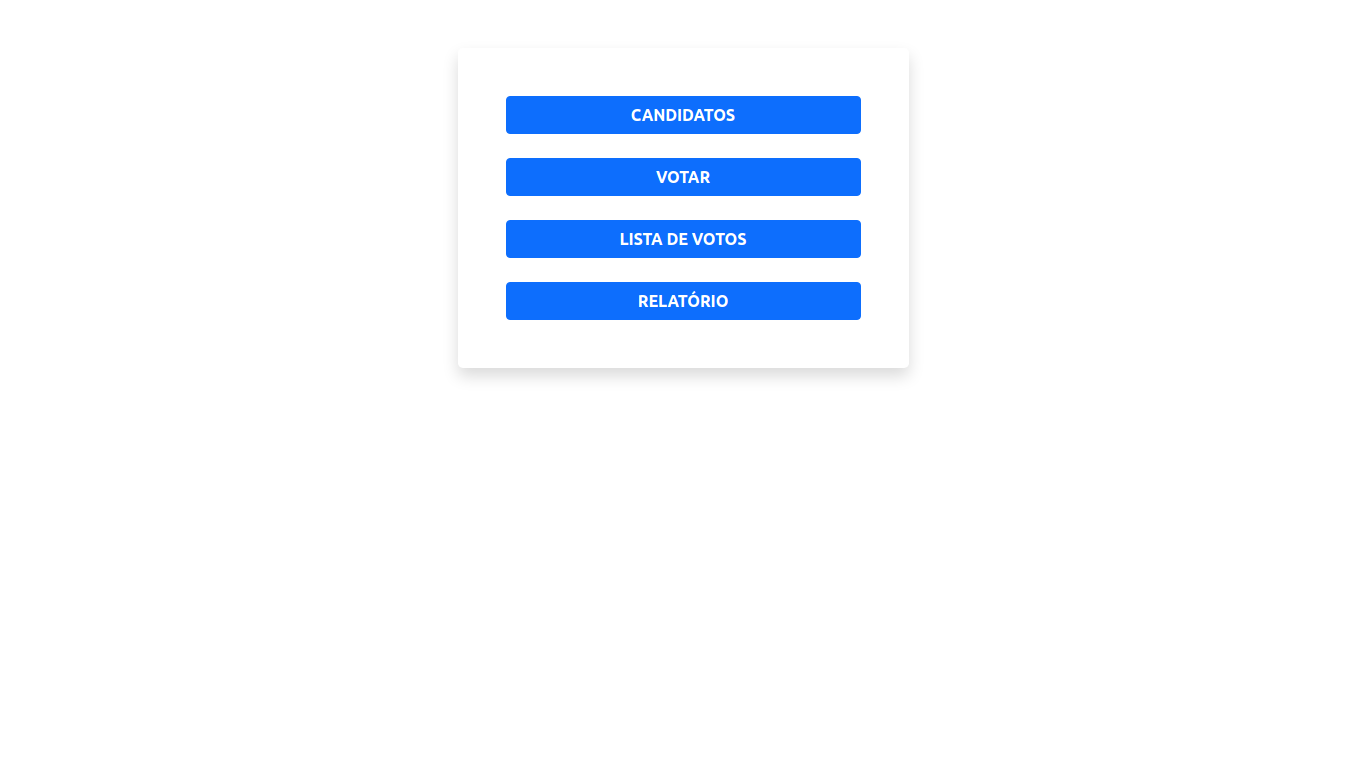
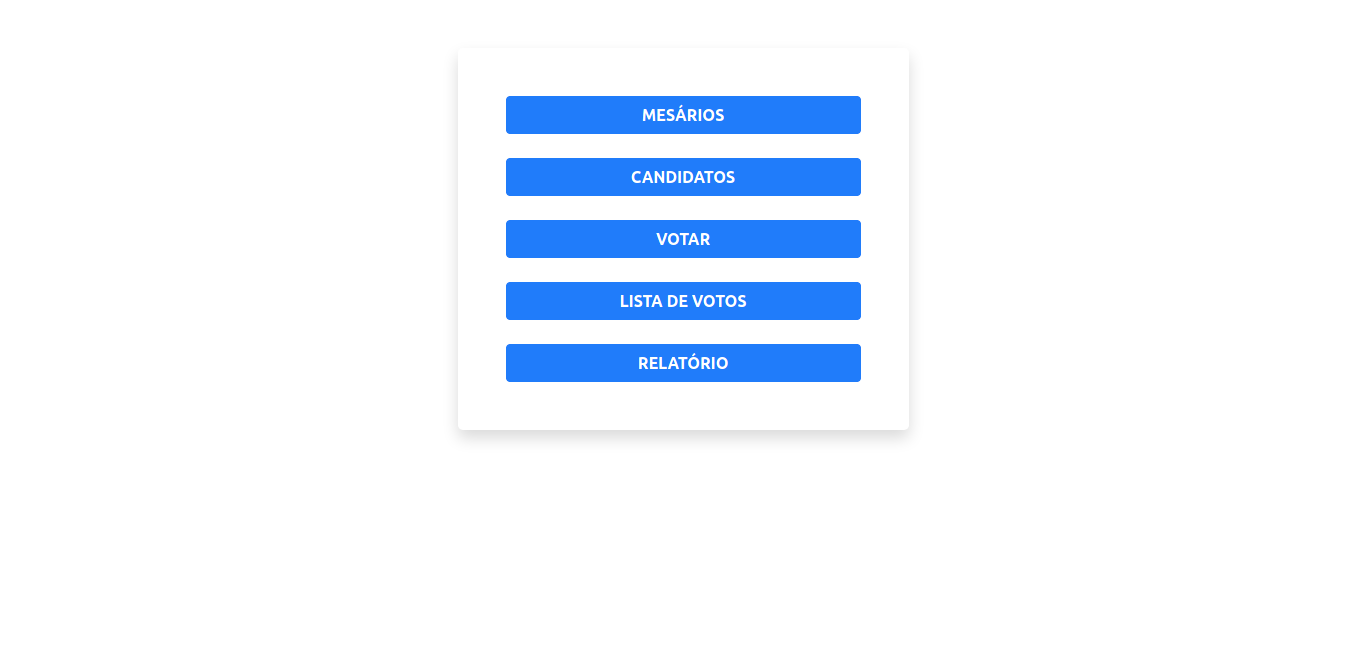
ajuste readme

Changed region(s): [[0.3382, 0.1198, 0.6457, 0.5689], [0.3382, 0.6287, 0.6764, 0.6587]]

diff --git a/README.md b/README.md
@@ -20,7 +20,7 @@
 ## Árvore do projeto
 
 <div align="center">
-<img src=".github/assets/tree.jpeg" />
+<img src=".github/assets/tree.png" />
 </div>
 
 ## Telas do projeto 
@@ -30,8 +30,16 @@
 <div align="center">
 <img src=".github/assets/1.png" />
 </div>
-<div align="center">
 
+<div align="center">
+<h2>Mesários</h2>
+</div>
+<div align="center">
+<img src=".github/assets/10.png" />
+<img src=".github/assets/11.png" />
+</div>
+
+<div align="center">
 <h2>Candidatos</h2>
 </div>
 <div align="center">
